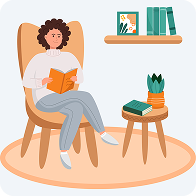
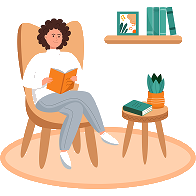
feat: remove background and add float animation to reading-chair illustration

diff --git a/frontend/src/app/pages/home/home.component.html b/frontend/src/app/pages/home/home.component.html
@@ -186,7 +186,7 @@
 <!-- ⑥ ACHETER -->
 <section class="max-w-7xl mx-auto px-5 md:px-8 py-12 md:py-16 flex flex-col md:flex-row items-center gap-10 md:gap-16">
   <div class="flex-1 hidden md:flex justify-center">
-    <img src="assets/reading-chair.png" alt="" class="w-72 object-contain" />
+    <img src="assets/reading-chair.png" alt="" class="w-72 object-contain animate-float" />
   </div>
   <div class="flex-1">
     <p class="text-primary text-xs font-bold uppercase tracking-wider mb-3">Acheter</p>
@@ -321,7 +321,7 @@
       </a>
     </div>
     <div class="flex-1 hidden md:flex justify-center">
-      <img src="assets/reading-chair.png" alt="" class="w-56 object-contain opacity-80" />
+      <img src="assets/reading-chair.png" alt="" class="w-56 object-contain opacity-80 animate-float" />
     </div>
   </div>
 </section>